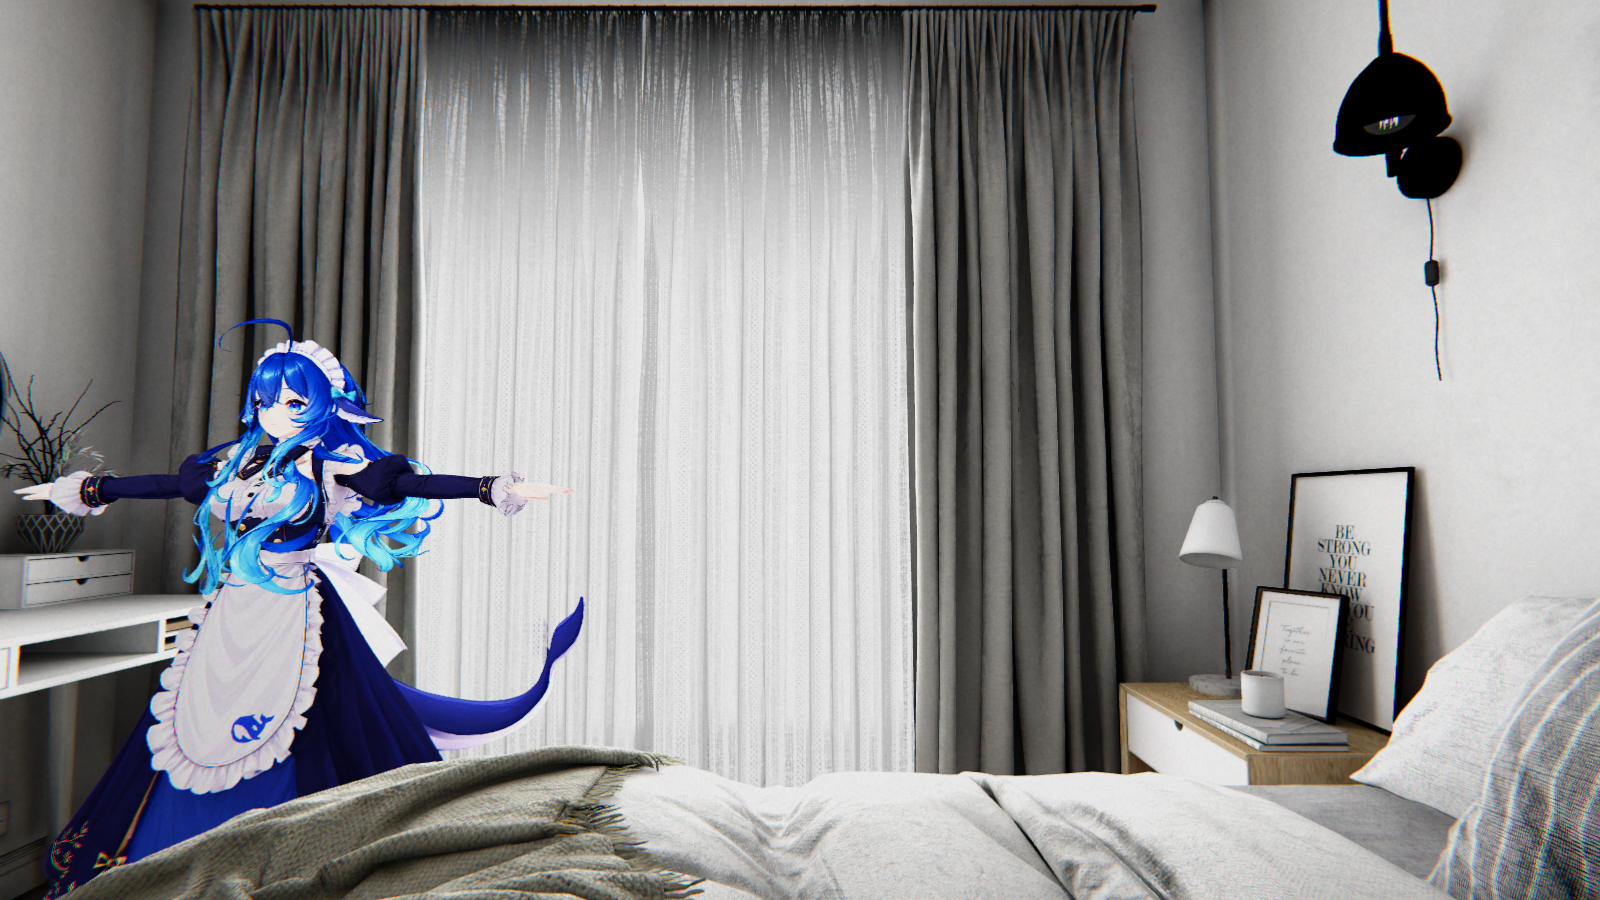
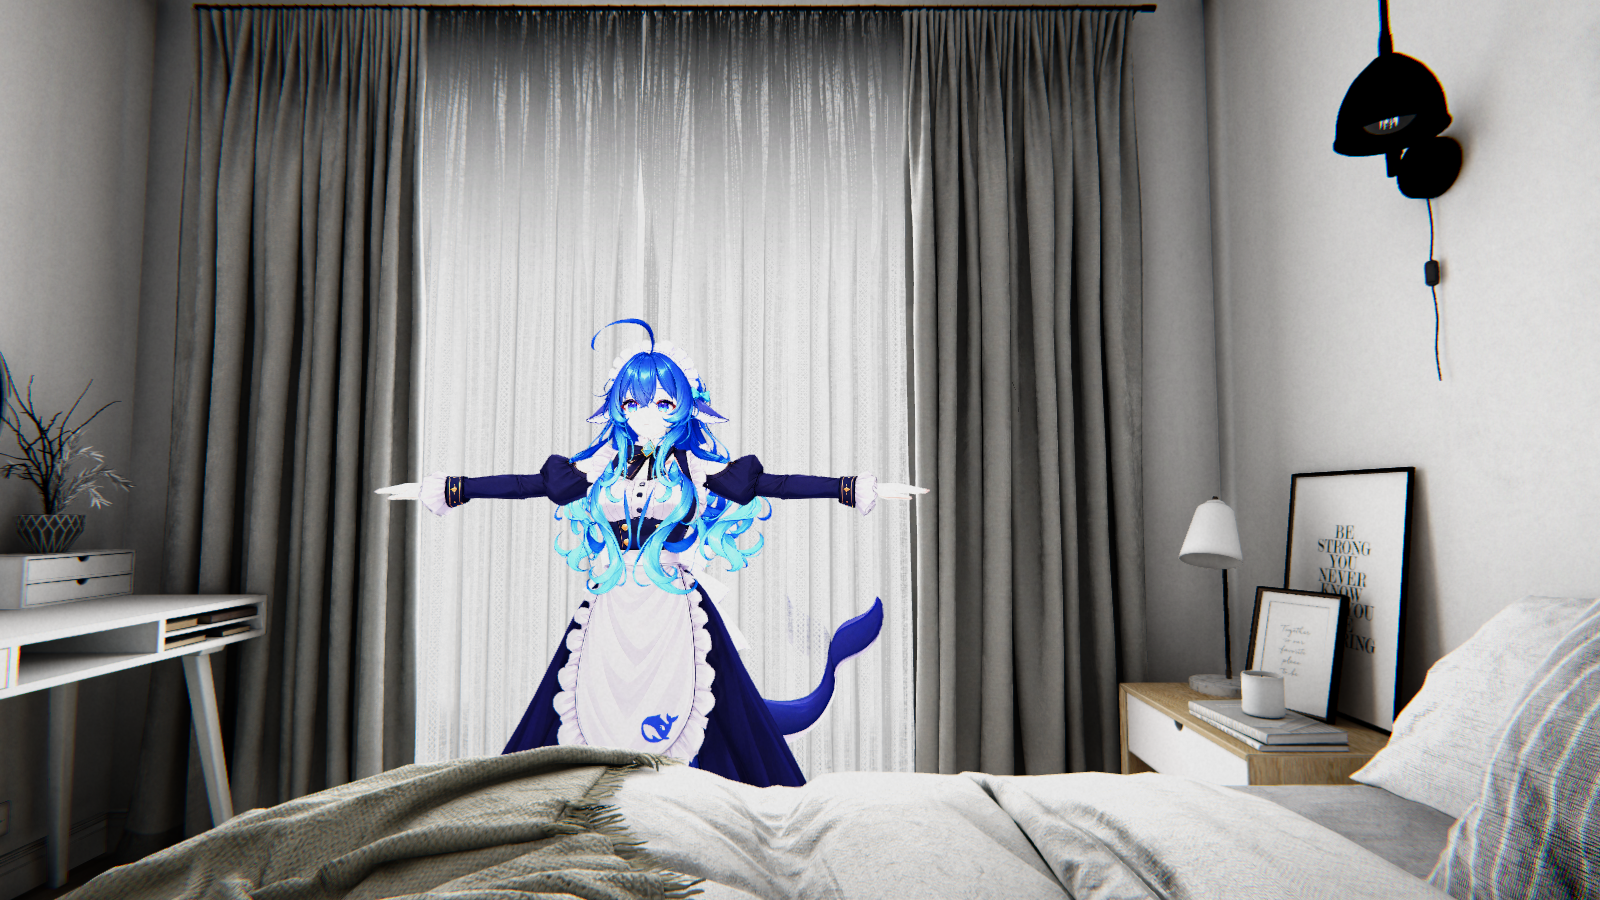
feat(scene): 还原床 + 接回门口路线 + 场景构建戳
- 实验确认：床隐藏时她能正常走到玩家面前，说明过不来是锚点位置问题，不是逻辑
- 还原床；锚点全部挪到床外的三块空地：
  desk(2.15,3.55) / bed(2.60,3.35) / window(3.20,3.45) / front(3.53,3.20) 在北侧窗带，
  west(2.13,1.60) 是床与书桌之间的窄道途经点，door(2.05,0.68) 在南侧条带
- 连边：desk-bed-window-front + desk-west-door，五条边全部通过净空检查
- SceneStamp：场景根节点带构建时间戳，GameLog 在 Play 开始时写 scene_build 事件，
  用于判断日志里的场景和你看到的场景是不是同一版（这两次排查都吃过这个亏）
- 日志增强：walk_accept / walk_reject（带 pathLen）、anim 事件记录 npc / visual / camera 三组世界坐标

Changed region(s): [[0.0, 0.3422, 0.5938, 1.0]]

diff --git a/DawnAndDusk/Assets/Editor/ApartmentSceneBuilder.cs b/DawnAndDusk/Assets/Editor/ApartmentSceneBuilder.cs
@@ -23,6 +23,9 @@ public static class ApartmentSceneBuilder
     static readonly Vector3 PlayerEuler = new Vector3(-2f, 0f, 0f);
     static readonly Vector3 StandUpPos = new Vector3(3.53f, 0.05f, 3.28f);
 
+    /// <summary>实验开关：把床整组藏掉，验证"她过不来"到底是床挡的还是逻辑问题。</summary>
+    const bool HideBedForTest = false;
+
     /// <summary>目标身高（米）：玩家 175cm → 站立视线 163cm；鲸鲸 162cm。</summary>
     const float PlayerEyeHeight = 1.63f;
     const float NpcHeight = 1.62f;
@@ -39,15 +42,19 @@ public static class ApartmentSceneBuilder
     {
     // 锚点全部放在"窗带"（床北侧 z≈3.2~3.5 的那条带，宽约 0.5m、长 2m）——
     // 绕床走位在物理上不成立（家具比房间还宽），所以改用"她本来就在窗前"的设定
-        new AnchorSpec { id = "front",  name = "床头边", desc = "你头侧的床沿，贴身说话的位置",   pos = new Vector3(3.53f, 0f, 3.20f) },
-        new AnchorSpec { id = "bed",    name = "床沿",   desc = "床北侧，靠窗的床沿",             pos = new Vector3(2.95f, 0f, 3.32f) },
-        new AnchorSpec { id = "desk",   name = "书桌边", desc = "靠西墙的书桌",                   pos = new Vector3(2.12f, 0f, 3.62f) },
-        new AnchorSpec { id = "window", name = "窗前",   desc = "落地窗西侧",                     pos = new Vector3(2.40f, 0f, 3.45f) },
+        new AnchorSpec { id = "front",  name = "床沿",   desc = "你头侧的床沿，探身说话的位置",   pos = new Vector3(3.53f, 0f, 3.20f) },
+        new AnchorSpec { id = "bed",    name = "床边",   desc = "床北侧靠窗的空地",               pos = new Vector3(2.60f, 0f, 3.35f) },
+        new AnchorSpec { id = "desk",   name = "书桌边", desc = "靠西墙的书桌",                   pos = new Vector3(2.15f, 0f, 3.55f) },
+        new AnchorSpec { id = "window", name = "窗前",   desc = "落地窗中间",                     pos = new Vector3(3.20f, 0f, 3.45f) },
+        // 绕床西侧的窄道途经点（床西沿 2.23 / 书桌东沿 2.03，中间约 0.2m，贴墙挤过去）
+        new AnchorSpec { id = "west",   name = "床侧过道", desc = "床和书桌之间的窄道",           pos = new Vector3(2.13f, 0f, 1.60f) },
+        new AnchorSpec { id = "door",   name = "门口",   desc = "主卧门，西墙靠南",               pos = new Vector3(2.05f, 0f, 0.68f) },
     };
 
     static readonly (string a, string b)[] Edges =
     {
-        ("desk", "window"), ("window", "bed"), ("bed", "front"),
+        ("desk", "bed"), ("bed", "window"), ("window", "front"),
+        ("desk", "west"), ("west", "door"),
     };
 
     /// <summary>
@@ -81,6 +88,26 @@ public static class ApartmentSceneBuilder
         }
 
         Debug.Log($"[Apartment] 收起地面靠垫：{hidden} 个");
+
+        if (HideBedForTest)
+        {
+            var beds = 0;
+            foreach (var t in Object.FindObjectsOfType<Transform>())
+            {
+                if (!t.gameObject.activeInHierarchy || !InBedroom(t))
+                {
+                    continue;
+                }
+
+                if (t.name.StartsWith("Bed_Bedroom", System.StringComparison.OrdinalIgnoreCase))
+                {
+                    t.gameObject.SetActive(false);
+                    beds++;
+                }
+            }
+
+            Debug.LogWarning($"[Apartment] 实验模式：床已隐藏（{beds} 个对象），用于验证通行");
+        }
     }
 
     /// <summary>向上三层查父级名字里有没有 BEDROOM（家具的层级是 ..._LOD &lt; BEDROOM）。</summary>
@@ -161,12 +188,16 @@ public static class ApartmentSceneBuilder
         var player = playerGo.AddComponent<PlayerController>();
         player.cameraTransform = camera.transform;
         player.startSeated = true;
-        player.seatedHeight = 1.00f;
+        player.allowMovement = true;
+        player.seatedHeight = 0.90f;
         player.standingHeight = PlayerEyeHeight;
-        player.standUpPosition = StandUpPos;
+        // 实验：不再起身瞬移，原地站起来（床已隐藏，不会被顶出去）
+        player.standUpPosition = PlayerPos;
 
         // 2) 玩法根
         var root = new GameObject("Game");
+        var stamp = root.AddComponent<SceneStamp>();
+        stamp.buildId = System.DateTime.Now.ToString("MMdd-HHmmss");
 
         var anchorsGo = new GameObject("Anchors");
         anchorsGo.transform.SetParent(root.transform, false);

diff --git a/DawnAndDusk/Assets/Editor/DoorProbe.cs b/DawnAndDusk/Assets/Editor/DoorProbe.cs
@@ -1,0 +1,46 @@
+using System.Linq;
+using System.Text;
+using UnityEditor;
+using UnityEditor.SceneManagement;
+using UnityEngine;
+
+/// <summary>
+/// 找主卧的门：列出所有名字含 Door 的对象及其世界坐标，判断哪个在卧室边界上。
+/// 菜单：Tools/DawnAndDusk/Find Bedroom Door
+/// </summary>
+public static class DoorProbe
+{
+    const string ScenePath = "Assets/_LocalTest/ArchViz/3D SCENE/ApartmentDemo.unity";
+
+    [MenuItem("Tools/DawnAndDusk/Find Bedroom Door")]
+    public static void Find()
+    {
+        EditorSceneManager.OpenScene(ScenePath, OpenSceneMode.Single);
+        var sb = new StringBuilder();
+        sb.AppendLine("# 所有 Door 对象");
+
+        foreach (var t in Object.FindObjectsOfType<Transform>())
+        {
+            if (t.name.IndexOf("door", System.StringComparison.OrdinalIgnoreCase) < 0)
+            {
+                continue;
+            }
+
+            var parent = t.parent != null ? t.parent.name : "-";
+            var renderer = t.GetComponent<Renderer>();
+            var size = renderer != null ? renderer.bounds.size.ToString() : "无渲染体";
+            sb.AppendLine($"{t.name,-24} pos={t.position} size={size} 父={parent}");
+        }
+
+        // 卧室四壁内侧的可行走点：沿 x=1.95（西墙内）、z=0.35（南墙内）采样
+        sb.AppendLine("\n# 卧室西墙 / 南墙 附近的墙内表面");
+        foreach (var r in Object.FindObjectsOfType<Renderer>()
+                     .Where(r => r.name.IndexOf("Wall", System.StringComparison.OrdinalIgnoreCase) >= 0
+                                 && r.bounds.center.x > 1.0f && r.bounds.center.z > -0.5f && r.bounds.center.z < 4.0f))
+        {
+            sb.AppendLine($"  {r.name,-26} center={r.bounds.center} size={r.bounds.size}");
+        }
+
+        Debug.Log(sb.ToString());
+    }
+}

diff --git a/DawnAndDusk/Assets/Scripts/Core/SceneStamp.cs b/DawnAndDusk/Assets/Scripts/Core/SceneStamp.cs
@@ -1,0 +1,33 @@
+using UnityEngine;
+
+/// <summary>
+/// 场景构建戳：每次 ApartmentSceneBuilder 生成场景时写入时间戳。
+/// 作用：Play 时 GameLog 会把它写进 session 事件，这样"日志说的"和"你看到的"
+/// 到底是不是同一版场景，一眼可查——之前吃过"改了代码但 Play 的是旧场景"的亏。
+/// </summary>
+public class SceneStamp : MonoBehaviour
+{
+    public string buildId = "";
+
+    void Awake()
+    {
+        _instance = this;
+        GameLog.Event("scene_build", "id", buildId);
+        Debug.Log($"[SceneStamp] 场景构建版本 {buildId}");
+    }
+
+    static SceneStamp _instance;
+
+    public static string Current
+    {
+        get
+        {
+            if (_instance == null)
+            {
+                _instance = FindObjectOfType<SceneStamp>();
+            }
+
+            return _instance != null ? _instance.buildId : "<none>";
+        }
+    }
+}

diff --git a/DawnAndDusk/Assets/Scripts/World/NpcAgent.cs b/DawnAndDusk/Assets/Scripts/World/NpcAgent.cs
@@ -93,9 +93,12 @@ public class NpcAgent : MonoBehaviour
         var path = graph.FindPath(CurrentAnchorId, anchorId);
         if (path.Count < 2)
         {
+            GameLog.Event("walk_reject", "from", CurrentAnchorId, "to", anchorId, "pathLen", path.Count.ToString());
             Debug.LogWarning($"[NpcAgent] 到不了 {anchorId}（不可达或已经在原地）");
             return;
         }
+
+        GameLog.Event("walk_accept", "from", CurrentAnchorId, "to", anchorId, "pathLen", path.Count.ToString());
 
         // 新指令覆盖旧指令：停掉上一次移动。
         if (_moveRoutine != null)

diff --git a/DawnAndDusk/Assets/Scripts/Characters/NpcAnimationDriver.cs b/DawnAndDusk/Assets/Scripts/Characters/NpcAnimationDriver.cs
@@ -114,6 +114,7 @@ public class NpcAnimationDriver : MonoBehaviour
                 "moving", npc.IsMoving ? "1" : "0",
                 "braking", npc.IsBraking ? "1" : "0",
                 "pos", $"{npc.transform.position.x:F2},{npc.transform.position.z:F2}",
+                "vis", $"{transform.position.x:F2},{transform.position.z:F2}",
                 "cam", $"{Camera.main.transform.position.x:F2},{Camera.main.transform.position.z:F2}");
         }
     }
